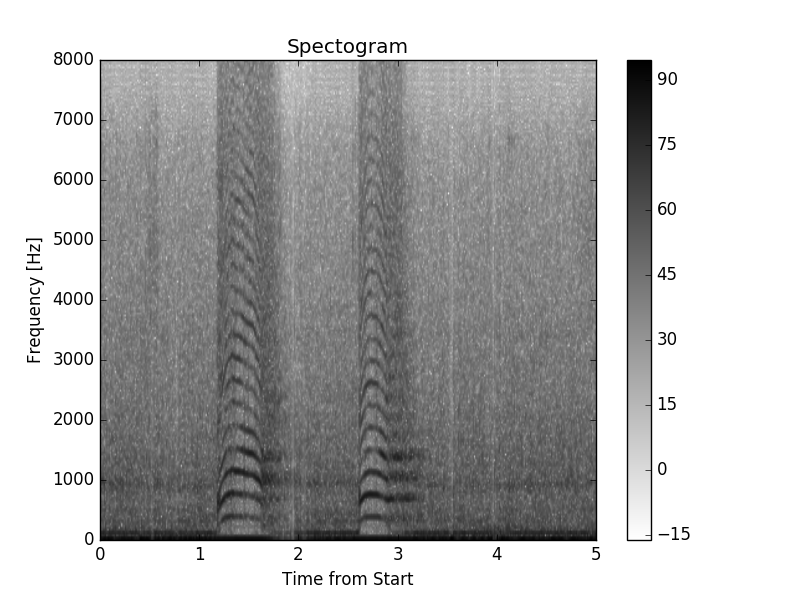
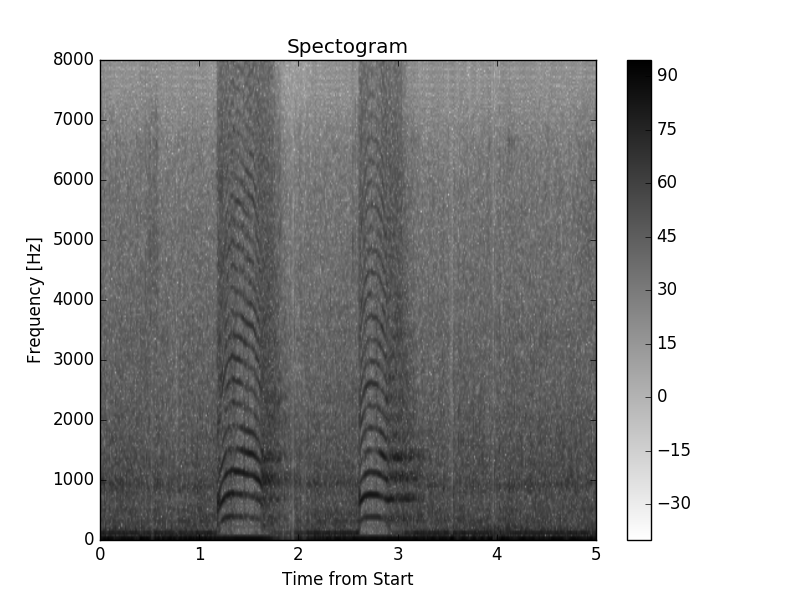
Finish implementing MFCC

diff --git a/beginner.py b/beginner.py
@@ -4,6 +4,7 @@ import wave
 import numpy as np
 import matplotlib
 import matplotlib.pyplot as plt
+import scipy.fftpack
 import scipy.io.wavfile as sciwav
 ### Input section
 
@@ -18,7 +19,7 @@ else:
     signal=data[:,0] #taking one of the channels.
 # signal=raw.readframes(-1)
 
-###TEST REGION
+"""TEST REGION
 # output=wave.open('briantest.wav','w')
 # output.setnchannels(1)
 # output.setsampwidth(2)
@@ -28,7 +29,7 @@ else:
 # signal=np.fromstring(signal,'Int16')
 # print signal.shape
 #raw has the wave_read object and signal is the numpy array for values
-
+"""
 ### Plotting the signal, using numpy array
 plt.title('Sample plotting')
 plt.plot(signal)
@@ -70,12 +71,12 @@ for iterator in range(0,columns):
 # print fft_matrix.shape 
 
 #Because we are getting inverted matrix, we will take the mirror image about x axis
-fft_matrix_useful=np.flipud(abs(fft_matrix[0:int(nfft/2),:]))
+fft_matrix_useful=np.flipud(abs(fft_matrix[0:int(nfft/2)+1,:]))
 ### PLOTTING SPECTOGRAM
 xlim=columns*duration/2
 ylim=sampling_rate/2
 xtics=np.linspace(0,xlim,columns)
-ytics=np.linspace(0,ylim,int(nfft/2))
+ytics=np.linspace(0,ylim,int(nfft/2)+1)
 plt.clf() #clearing the previous plot
 np.set_printoptions(precision=2)
 plt.imshow(20*np.log10(fft_matrix_useful),cmap="binary",aspect="auto",extent=[0,xlim,0,ylim]) #for complex values, abs returns the mag of the number
@@ -87,3 +88,72 @@ plt.savefig('spectrogram.png')
 plt.clf()
 ### Done with plotting
 
+### MEL SECTION
+#some parameters used in calling the functions
+num_filters=40
+# Some crucial function definitions
+def hz2mel(hz):
+    return 2595 * np.log10(1+hz/700.)
+def mel2hz(mel):
+    return 700*(10**(mel/2595.0)-1)
+    # The following function is taken from python_speech_features implemented by James Lyons
+def get_filterbanks(nfilt=20,nfft=512,samplerate=16000,lowfreq=0,highfreq=None):
+    """Compute a Mel-filterbank. The filters are stored in the rows, the columns correspond
+    to fft bins. The filters are returned as an array of size nfilt * (nfft/2 + 1)
+    :param nfilt: the number of filters in the filterbank, default 20.
+    :param nfft: the FFT size. Default is 512.
+    :param samplerate: the samplerate of the signal we are working with. Affects mel spacing.
+    :param lowfreq: lowest band edge of mel filters, default 0 Hz
+    :param highfreq: highest band edge of mel filters, default samplerate/2
+    :returns: A numpy array of size nfilt * (nfft/2 + 1) containing filterbank. Each row holds 1 filter.
+    """
+    highfreq= highfreq or samplerate/2
+    assert highfreq <= samplerate/2, "highfreq is greater than samplerate/2"
+    # compute points evenly spaced in mels
+    lowmel = hz2mel(lowfreq)
+    highmel = hz2mel(highfreq)
+    melpoints = np.linspace(lowmel,highmel,nfilt+2)
+    # our points are in Hz, but we use fft bins, so we have to convert
+    #  from Hz to fft bin number
+    bin = np.floor((nfft+1)*mel2hz(melpoints)/samplerate)
+    fbank = np.zeros([nfilt,nfft//2+1])
+    for j in range(0,nfilt):
+        for i in range(int(bin[j]), int(bin[j+1])):
+            fbank[j,i] = (i - bin[j]) / (bin[j+1]-bin[j])
+        for i in range(int(bin[j+1]), int(bin[j+2])):
+            fbank[j,i] = (bin[j+2]-i) / (bin[j+2]-bin[j+1])
+    return fbank
+
+power_spectrum=np.square(abs(fft_matrix_useful)) # power_spectrum will have the powers for each frame.
+
+"""
+Structure of FFT Matrix: FFT Bin X Frames
+Structure of FilterBank Matrix.T: FFT Bin X Filters
+"""
+filtered_spectrum=np.dot(np.flipud(fft_matrix_useful).T,get_filterbanks(num_filters,nfft,sampling_rate).T)
+"""
+Structure of filtered_spectrum: Frames X Filters.
+That is for each frame(a row) we have entry in corresponding filters. Higher the entry in filter, higher the energy in that filter. We take logarithm of all the entries in the next stage
+"""
+log_spectrum=np.log(filtered_spectrum) #all entries for a frame are in row, thus column has filters
+print "Log Spectrum Shape: ",log_spectrum.shape
+plt.imshow(log_spectrum,aspect="auto",cmap="binary")
+plt.title("Log Spectrum")
+plt.colorbar()
+plt.savefig("logspectrum.png")
+plt.close()
+dct_spectrum=scipy.fftpack.dct(log_spectrum,axis=1)
+print "DCT Spectrum Shape: ",dct_spectrum.shape
+# print dct_spectrum
+
+### PLOT DCT MATRIX TO SEE THE VALUES OF THE COEFFICIENTS
+plt.clf()
+plt.imshow((dct_spectrum[:,1:10]),aspect="auto",cmap="binary")
+plt.title("DCT SPECTRUM")
+plt.colorbar()
+plt.savefig("dctspectrum.png")
+
+# It makes sense to take the first 13 DCT's, as the rest die out.
+mfcc=dct_spectrum[:,0:13] #That is we are taking all the rows(ie frames) and than taking the first 14 coefficients
+# np.set_printoptions(threshold='nan')
+# print mfcc
